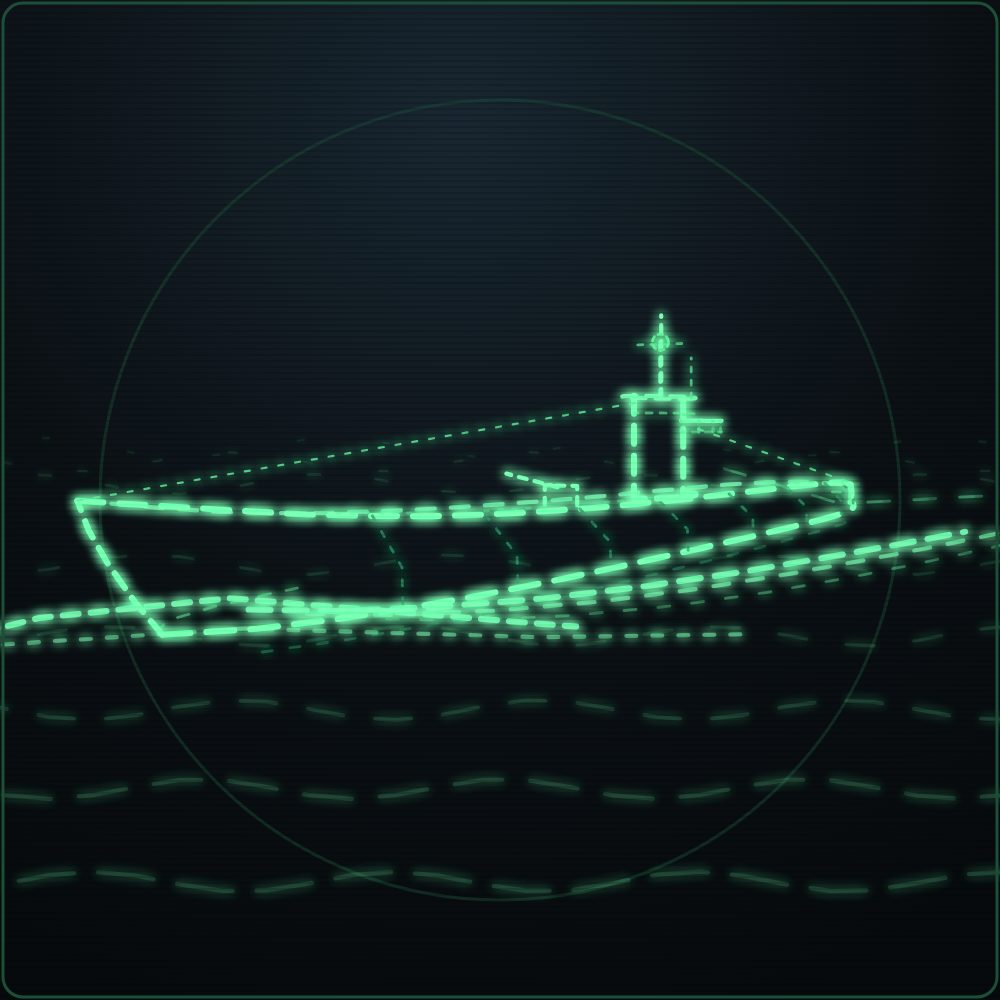
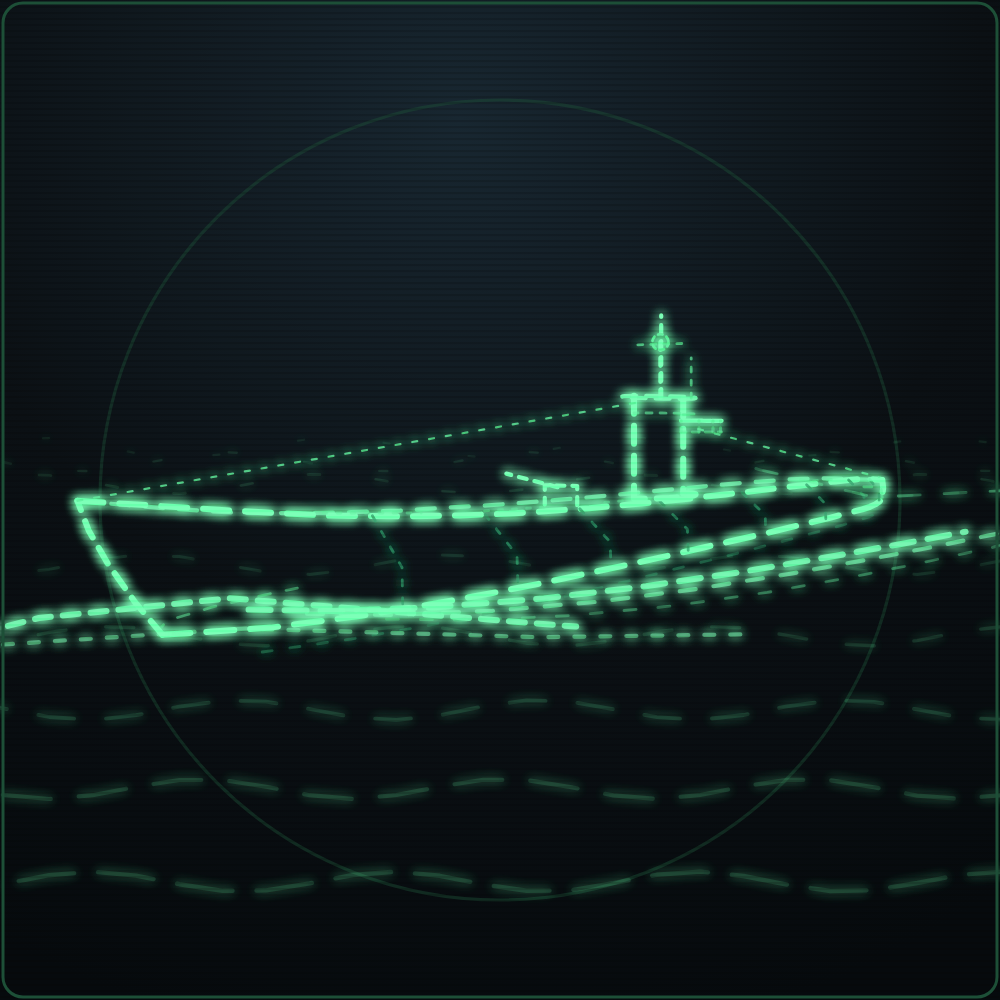
Achterschiff um zehn weitere Meter
Rumpf jetzt 81 m statt 71. Damit liegen 29 Prozent der sichtbaren Laenge
hinter dem Turm. Kamera unveraendert, beide Formate neu gerendert.

Changed region(s): [[0.713, 0.434, 1.0, 0.527]]

diff --git a/_uboot3d.py b/_uboot3d.py
@@ -8,9 +8,9 @@ import io, math
 
 # ---------------------------------------------------------------- Rumpfdaten
 # x = Laengsachse in Metern, 0 = Bug, Heck bei 71 (VII/C ist 67 lang,
-# das Achterschiff ist bewusst um vier Meter gestreckt, sonst wirkt die
+# das Achterschiff ist bewusst um vierzehn Meter gestreckt, sonst wirkt die
 # Silhouette aus der Entfernung wie ein Frachter)
-XS = [0,   3,   6,   10,  15,  22,  30,  40,  50,  58,  63,  67.5, 71]
+XS = [0,   3,   6,   10,  15,  22,  30,  40,  53,  64,  70,  76,   81]
 WD = [0,  1.0, 1.5, 1.9, 2.1, 2.2, 2.2, 2.2, 2.1, 1.8, 1.3, 0.7, 0]   # Deckskasten, halbe Breite
 ZD = [3.4, 3.0, 2.7, 2.45,2.25,2.1, 2.0, 1.95,1.9, 1.8, 1.65,1.4, 1.2] # Deckshoehe ueber Wasser
 WH = [0,  1.6, 2.4, 3.0, 3.3, 3.45,3.45,3.4, 3.2, 2.8, 2.1, 1.1, 0]   # Rumpf an der Wasserlinie
@@ -74,11 +74,11 @@ def add(cls, dash, d, extra=''):
     P.append('<path class="%s" stroke-dasharray="%s" %s d="%s"/>' % (cls, dash, extra, d))
 
 # Deckskante Backbord (uns zugewandt) und Steuerbord (abgewandt)
-add('near', '13 8', path(curve(lambda x: (xd(x),  wd(x), zd(x)), 0, 71)))
-add('mid',  '9 8',  path(curve(lambda x: (xd(x), -wd(x), zd(x)), 0, 71)), 'opacity=".72"')
+add('near', '13 8', path(curve(lambda x: (xd(x),  wd(x), zd(x)), 0, 81)))
+add('mid',  '9 8',  path(curve(lambda x: (xd(x), -wd(x), zd(x)), 0, 81)), 'opacity=".72"')
 
 # Wasserlinie Backbord, dazu ein Stueck Steuerbord am Bug
-add('near', '14 8', path(curve(lambda x: (xw(x),  wh(x), 0), 0, 71)))
+add('near', '14 8', path(curve(lambda x: (xw(x),  wh(x), 0), 0, 81)))
 add('far',  '6 8',  path(curve(lambda x: (xw(x), -wh(x), 0), 0, 11)), 'opacity=".5"')
 
 # Steven: senkrechte Kante am Bug
@@ -86,11 +86,11 @@ add('near', '9 6', path([proj(xw(0), 0, 0), proj(0.35, 0, 0.9), proj(-0.55, 0, 1
                          proj(-1.15, 0, 2.7), proj(xd(0), 0, 3.4)]))
 
 # Satteltankwulst, knapp unter der Oberflaeche
-add('deep', '5 9', path(curve(lambda x: (x, wh(x)*1.06, -0.55), 3, 66)), 'opacity=".42"')
+add('deep', '5 9', path(curve(lambda x: (x, wh(x)*1.06, -0.55), 3, 75)), 'opacity=".42"')
 
 # Spanten: Deckskante -> Bordwand -> Wasserlinie
 sp = []
-for x in (8, 14, 21, 29, 38, 48, 57, 64):
+for x in (8, 14, 21, 29, 40, 52, 63, 72):
     sp.append(path([proj(x, wd(x), zd(x)),
                     proj(x, wh(x)*0.99, zd(x)*0.45),
                     proj(x, wh(x), 0)]))
@@ -99,7 +99,7 @@ P.append('<g class="deep" stroke-dasharray="3 6" opacity=".7">%s</g>'
 
 # Decksluken laengs
 lu = []
-for x0, x1 in ((7, 12), (16, 21), (26, 31), (54, 59)):
+for x0, x1 in ((7, 12), (16, 21), (26, 31), (58, 65)):
     lu.append(path([proj(x0, wd(x0)*0.45, zd(x0)+0.05),
                     proj(x1, wd(x1)*0.45, zd(x1)+0.05)]))
 P.append('<g class="far" stroke-dasharray="2 5" opacity=".45">%s</g>'
@@ -152,7 +152,7 @@ P.append('<circle cx="%.1f" cy="%.1f" r="4" class="far" stroke-dasharray="2.2 2.
 
 # ---- Netzabweiser
 add('wire', '2.5 6', path([proj(xd(0), 0, 3.4), proj(xc-tl+0.2, 0, tz-0.3)]), 'opacity=".8"')
-add('wire', '2.5 6', path([proj(w0+2.4, 0, wz-0.4), proj(70.4, 0, 1.4)]), 'opacity=".8"')
+add('wire', '2.5 6', path([proj(w0+2.4, 0, wz-0.4), proj(80.4, 0, 1.4)]), 'opacity=".8"')
 
 # ---------------------------------------------------------------- Bugsee
 bw = []
@@ -173,12 +173,12 @@ bw.append('<path class="mid" stroke-dasharray="5 8" opacity=".5" d="%s"/>' % pat
 P.append(''.join(bw))
 
 # ---- Heck: Deckskante und Wasserlinie laufen in der Spitze zusammen
-add('near', '6 5', path([proj(71, 0, zd(71)), proj(71.3, 0, 0.6), proj(xw(71), 0, 0)]))
+add('near', '6 5', path([proj(81, 0, zd(81)), proj(81.3, 0, 0.6), proj(xw(81), 0, 0)]))
 
 # ---- Achterschiff: Auslauf und Ruderblatt
-add('mid', '7 6', path([proj(64, wd(64), zd(64)), proj(68, wd(68)*0.8, zd(68)),
-                        proj(71, 0, 1.2)]), 'opacity=".85"')
-add('far', '4 6', path([proj(66, 0, 0.9), proj(70.5, 0, 0.7), proj(71.4, 0, -0.9)]),
+add('mid', '7 6', path([proj(72, wd(72), zd(72)), proj(77, wd(77)*0.8, zd(77)),
+                        proj(81, 0, 1.2)]), 'opacity=".85"')
+add('far', '4 6', path([proj(75, 0, 0.9), proj(80.5, 0, 0.7), proj(81.4, 0, -0.9)]),
     'opacity=".6"')
 
 # ---------------------------------------------------------------- Kielwasser
@@ -186,7 +186,7 @@ kw = []
 for sgn, op, dash in ((1, '.3', '11 12'), (-1, '.3', '11 12'),
                       (1, '.16', '7 16'), (-1, '.16', '7 16')):
     spread = 1.6 if abs(op == '.4') else 3.4
-    pts = [proj(71 + i*9.0, sgn*(1.2 + i*(2.2 if op == '.4' else 4.0)), 0)
+    pts = [proj(81 + i*9.0, sgn*(1.2 + i*(2.2 if op == '.4' else 4.0)), 0)
            for i in range(10)]
     kw.append('<path class="far" stroke-dasharray="%s" opacity="%s" d="%s"/>'
               % (dash, op, path(pts)))
